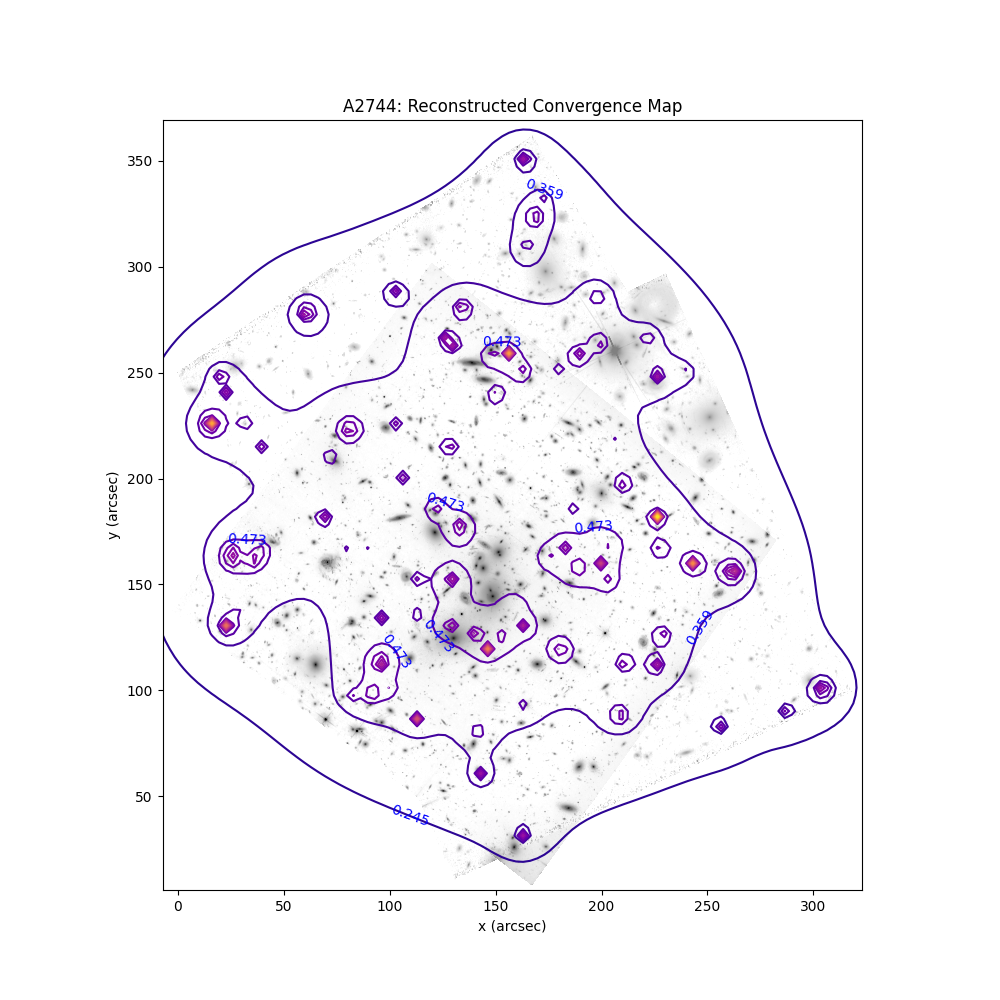
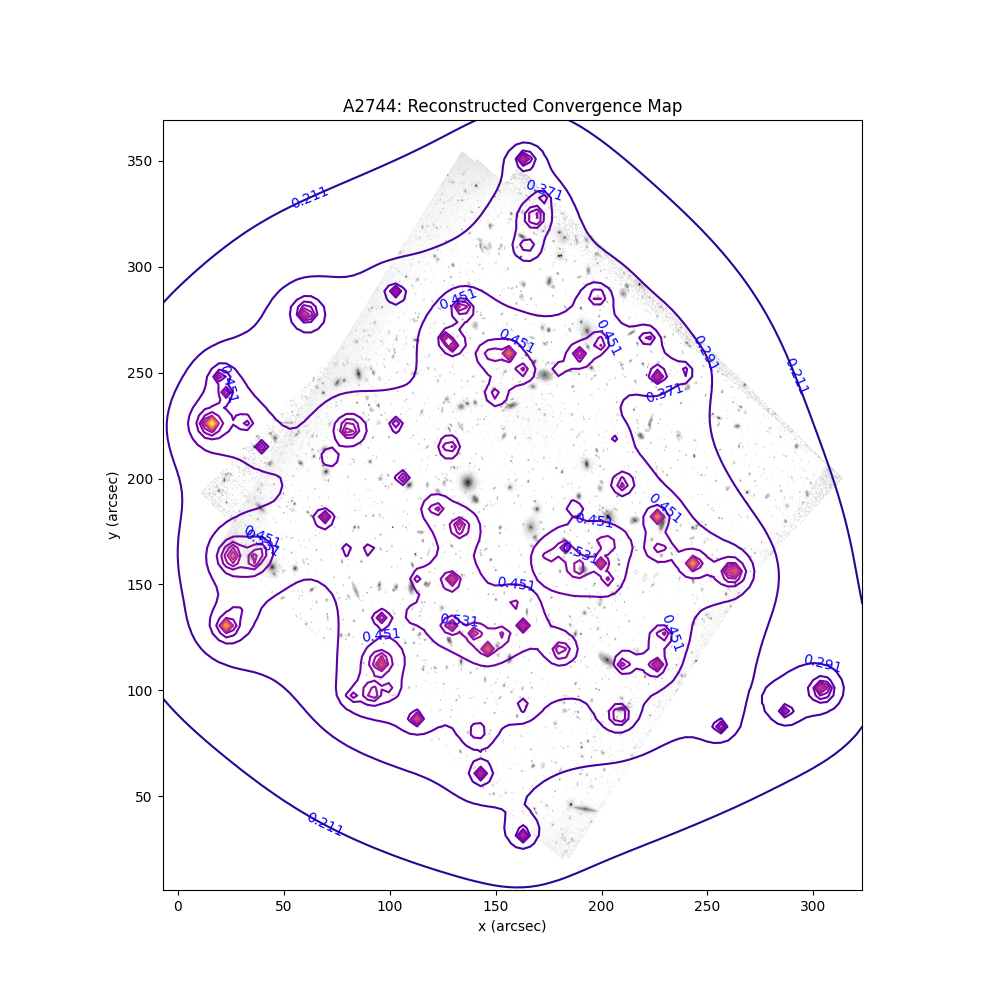
Verified correct A2744 file

diff --git a/test_pipeline.py b/test_pipeline.py
@@ -347,7 +347,7 @@ def overlay_real_img(image_path:str, ax, conv:np.ndarray, nlevels:int=7) -> None
 
 
 if __name__ == '__main__':
-    fits_file_path = 'Data\color_hlsp_frontier_hst_acs-30mas_abell2744_f814w_v1.0-epoch2_f606w_v1.0_f435w_v1.0_drz_sci.fits'
+    fits_file_path = 'Data/color_hlsp_frontier_hst_acs-30mas_abell2744_f814w_v1.0-epoch2_f606w_v1.0_f435w_v1.0_drz_sci.fits'
     csv_file_path = 'a2744_clu_lenser.csv'
 
     img_data, header = get_img_data(fits_file_path)
@@ -359,9 +359,18 @@ if __name__ == '__main__':
     x_pix = coords[:, 0]
     y_pix = coords[:, 1]
 
+    plt.figure()
+    norm = ImageNormalize(img_data1, vmin=0, vmax=1, stretch=LogStretch())
+    plt.imshow(img_data1, cmap='gray_r', origin='lower', norm=norm)
+    plt.imshow(img_data2, cmap='gray_r', origin='lower', norm=norm)
+    plt.scatter(x_pix + 115, y_pix + 55, s=2, c='r', label = 'Catalogue Objects', alpha=0.5)
+    plt.show()
+
+    raise SystemExit
+
     warnings.filterwarnings("ignore", category=RuntimeWarning)
 
-    lenses, sources, xmax, chi2 = reconstruct_system('a2744_clu_lenser.csv', flags=True)
+    lenses, sources, xmax, chi2 = reconstruct_system(csv_file_path, flags=True)
 
     # Save the class objects so that we can replot without having to rerun the code
     # np.save('Data//a2744_lenses', np.array([lenses.x, lenses.y, lenses.te, lenses.chi2]))
@@ -381,7 +390,7 @@ if __name__ == '__main__':
     X, Y = np.meshgrid(x, y)
     kappa = np.zeros_like(X)
     for k in range(len(lenses.x)):
-        r = np.sqrt((X - lenses.x[k])**2 + (Y - lenses.y[k])**2)
+        r = np.sqrt((X - lenses.x[k])**2 + (Y - lenses.y[k])**2 + (0.5)**2)
         kappa += lenses.te[k] / (2 * r)
 
 
@@ -391,7 +400,7 @@ if __name__ == '__main__':
     ax.set_title('A2744: Reconstructed Convergence Map')
     norm = ImageNormalize(img_data1, vmin=0, vmax=1, stretch=LogStretch())
     ax.imshow(img_data1, cmap='gray_r', origin='lower', norm=norm, extent=extent)
-    ax.imshow(img_data2, cmap='gray_r', origin='lower', norm=norm, extent=extent, alpha=0.5)
+    ax.imshow(img_data2, cmap='gray_r', origin='lower', norm=norm, extent=extent)
     # ax.scatter(x_pix, y_pix, s=2, c='r', label = 'Catalogue Objects', alpha=0.5)
     levels = np.linspace(np.min(kappa), np.max(kappa), 20)
 
